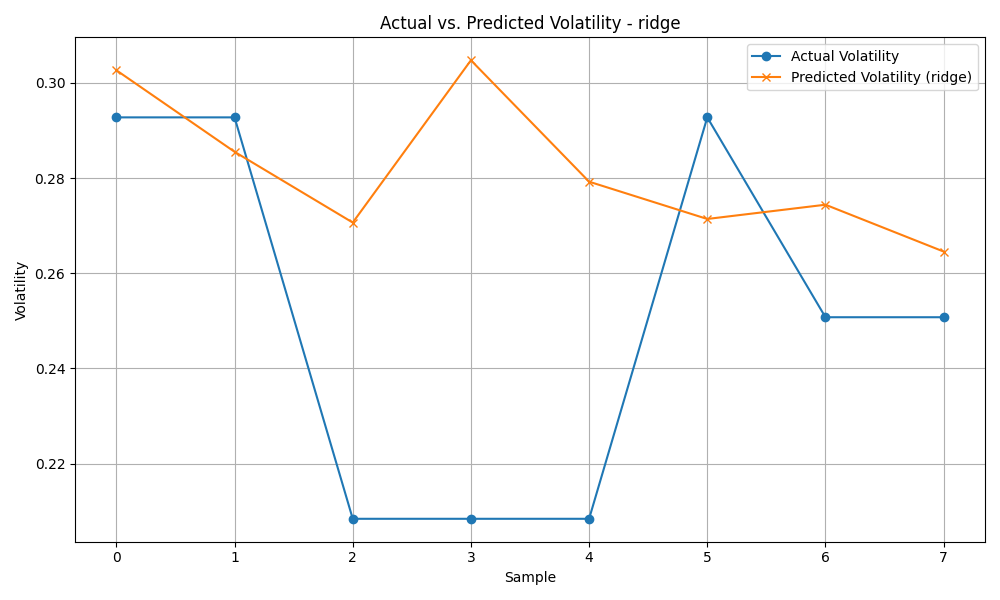
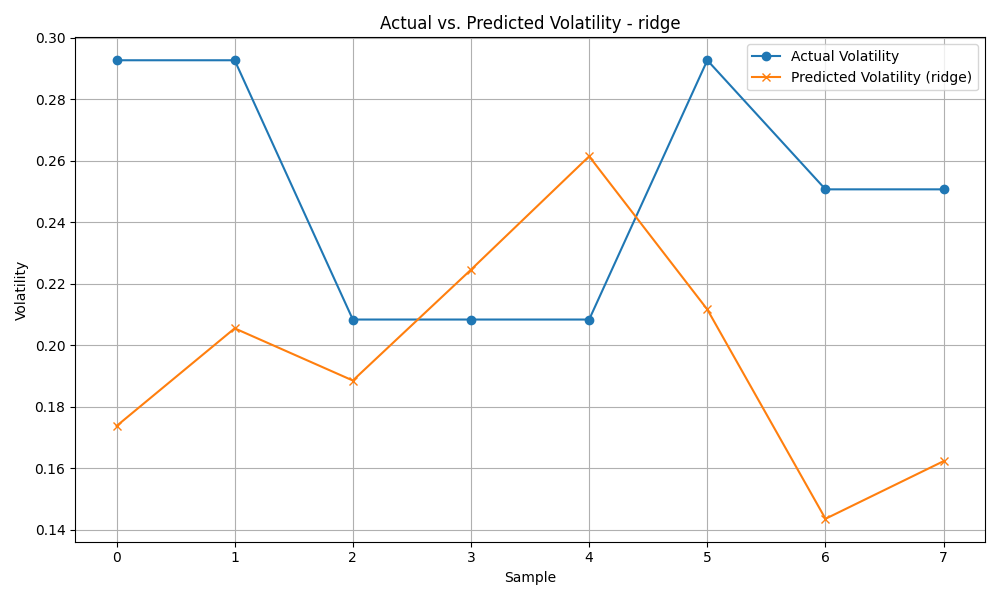
fix normalization

diff --git a/src/model_training.py b/src/model_training.py
@@ -6,6 +6,8 @@ from sklearn.ensemble import RandomForestRegressor
 from sklearn.neural_network import MLPRegressor
 from sklearn.metrics import mean_absolute_error, mean_squared_error
 from sklearn.model_selection import TimeSeriesSplit, GridSearchCV, RandomizedSearchCV
+from sklearn.preprocessing import StandardScaler
+from sklearn.pipeline import Pipeline
 
 logging.basicConfig(
     level=logging.INFO,
@@ -27,9 +29,12 @@ def temporal_train_test_split(X, y, test_size=0.2):
 
 def evaluate_model(model, X_test, y_test):
     y_pred = model.predict(X_test)
+    residuals = y_test - y_pred
     mae = mean_absolute_error(y_test, y_pred)
     rmse = np.sqrt(mean_squared_error(y_test, y_pred))
+    logging.info(f"Residuals - Mean: {np.mean(residuals):.4f}, Std Dev: {np.std(residuals):.4f}")
     return y_pred, mae, rmse
+
 
 def get_models():
     """
@@ -46,44 +51,51 @@ def get_models():
 
 def get_hyperparameter_grids():
     """
-    Returns a dictionary of hyperparameter grids for tuning.
-    Keys should match keys in get_models().
+    Returns hyperparameter grids for tuning models.
     """
     grids = {
-        'ridge': {
-            'alpha': [0.1, 1.0, 10.0, 100.0]
-        },
+        'ridge': {'model__alpha': [0.1, 1.0, 10.0, 100.0]},  # Correct syntax for Ridge in a pipeline
         'random_forest': {
             'n_estimators': [50, 100, 200],
-            'max_depth': [5, 10, 20]
+            'max_depth': [5, 10, 20, None],
+            'min_samples_split': [2, 5, 10],
+            'min_samples_leaf': [1, 2, 4]
         },
-        # Add more grids here for other models as needed
+        'mlp': {
+            'model__hidden_layer_sizes': [(50,), (100,), (50, 50)],
+            'model__activation': ['relu', 'tanh'],
+            'model__learning_rate_init': [0.001, 0.01]
+        }
     }
     return grids
 
 def train_and_tune_model(model_name, model, X_train, y_train, cv_splits=3):
     """
-    Trains and optionally tunes a given model using TimeSeriesSplit for CV.
-    If hyperparameters are available for the model in get_hyperparameter_grids(),
-    GridSearchCV or RandomizedSearchCV is used.
-
-    Returns the best trained model.
+    Train and tune model with feature scaling for models requiring it (MLP, Ridge, etc.).
     """
     grids = get_hyperparameter_grids()
-    if model_name in grids:
-        logging.info(f"Hyperparameter tuning for {model_name}...")
-        tscv = TimeSeriesSplit(n_splits=cv_splits)
+    tscv = TimeSeriesSplit(n_splits=cv_splits)
 
-        # We can choose GridSearchCV or RandomizedSearchCV here.
-        # Using GridSearchCV for simplicity.
-        grid_search = GridSearchCV(model, grids[model_name], cv=tscv, scoring='neg_mean_squared_error', n_jobs=-1)
+    # Apply scaling for certain models
+    if model_name in ['mlp', 'ridge', 'linear_regression']:
+        pipeline = Pipeline([
+            ('scaler', StandardScaler()),  # Add feature scaling
+            ('model', model)
+        ])
+    else:
+        pipeline = model  # No scaling for tree-based models
+
+    # GridSearchCV for hyperparameter tuning if available
+    if model_name in grids:
+        grid_search = GridSearchCV(
+            pipeline, grids[model_name], cv=tscv, scoring='neg_mean_squared_error', n_jobs=-1
+        )
         grid_search.fit(X_train, y_train)
         logging.info(f"Best parameters for {model_name}: {grid_search.best_params_}")
         return grid_search.best_estimator_
     else:
-        # No hyperparameter tuning, just fit directly
-        model.fit(X_train, y_train)
-        return model
+        pipeline.fit(X_train, y_train)
+        return pipeline
 
 def quick_cross_validation(model, X, y, cv_splits=3):
     """

diff --git a/src/main.py b/src/main.py
@@ -62,12 +62,12 @@ def plot_distributions(y_test, y_pred, model_name="model", output_dir="plots"):
     plt.close()
 
     # Histogram of residuals
-    plt.figure(figsize=(10,6))
-    plt.hist(residuals, bins=20, color='red')
+    plt.figure(figsize=(10, 6))
+    plt.hist(residuals, bins=10, color='red', edgecolor='black')
     plt.xlabel('Residual')
     plt.ylabel('Frequency')
     plt.title(f'Residual Distribution - {model_name}')
-    plt.grid(True)
+    plt.grid(axis='y', linestyle='--')
     plt.tight_layout()
     plt.savefig(os.path.join(output_dir, f'residual_distribution_{model_name}.png'))
     plt.close()
